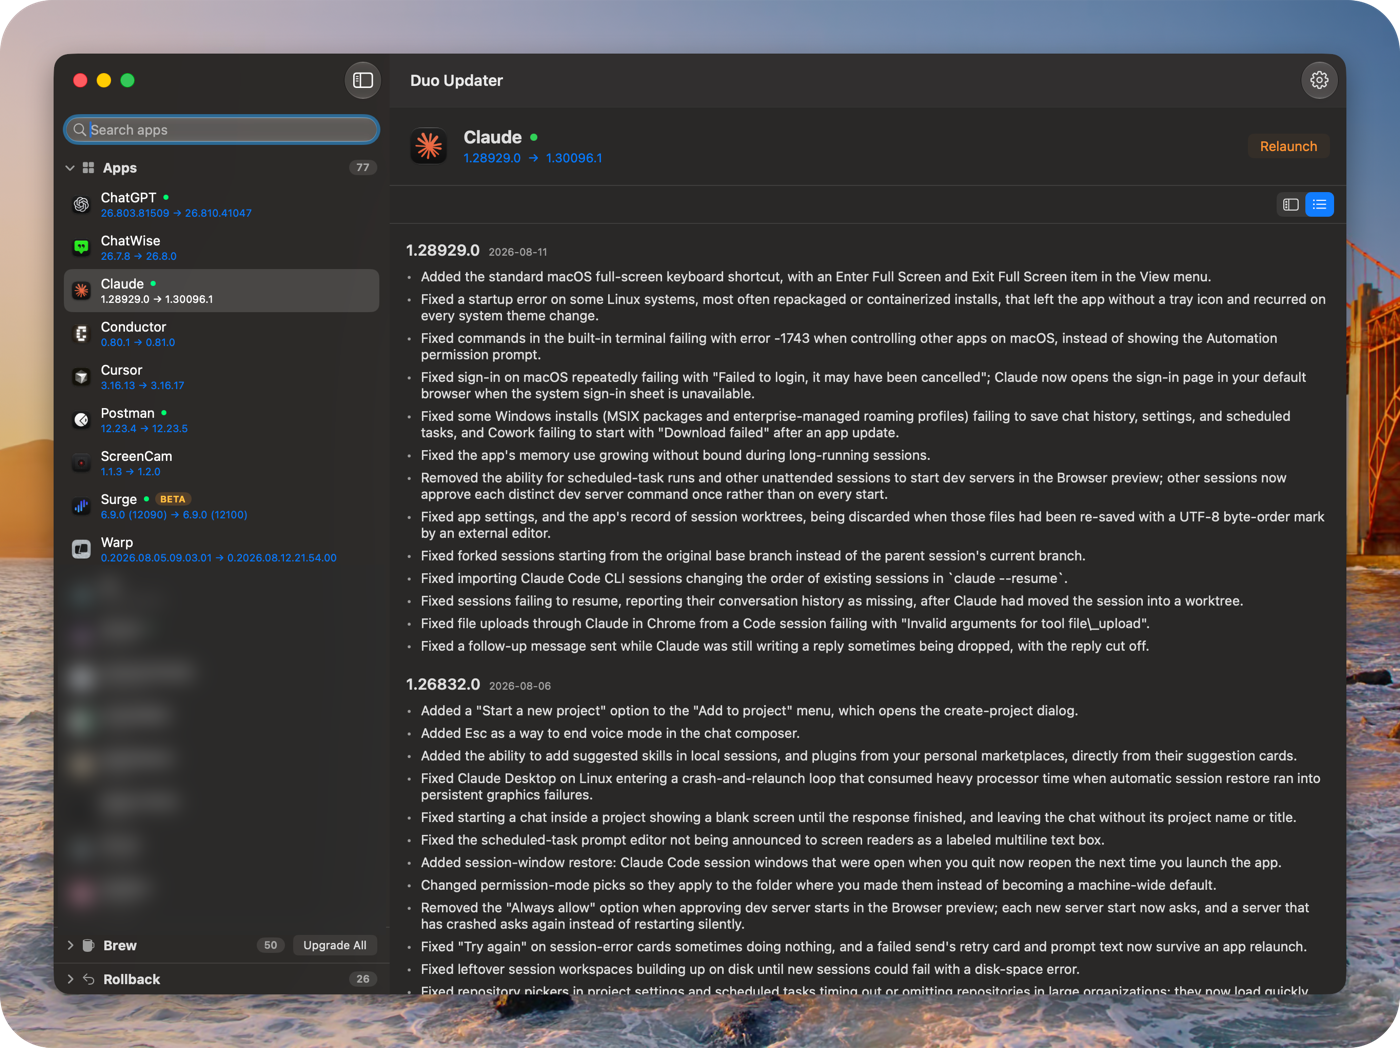
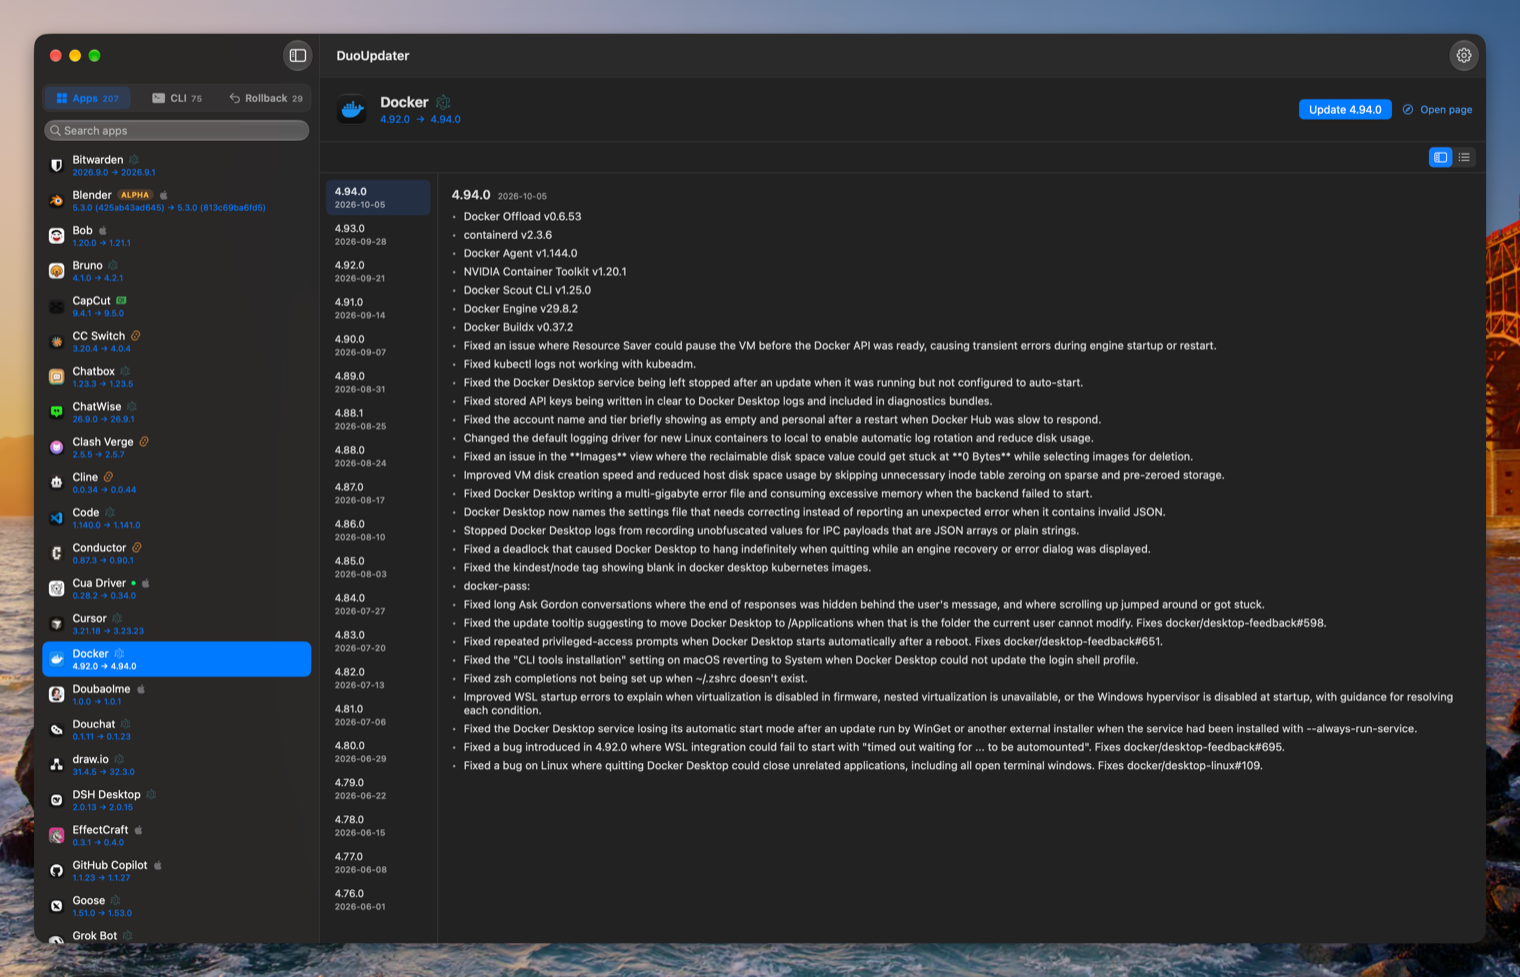
Home page: new screenshots, and one of the Xcode settings page (#10)
Syncs the menu bar, workbench and General settings shots from the app repo
(jizhi0v0/duo-updater#1048) and adds xcode.png: sync-content.mjs now copies
it, and the home page shows it after the settings figure.

menuBar.alt and settings.alt in all 11 locales describe the new pictures
(89 updates, Anki and BetterDisplay instead of Amp and AndroMeld, the
Homebrew and Other tools rows, the new sidebar entries, no rollback-backup
controls). The new xcode.alt and xcode.caption are in all 11 locales; the
captions use the app's own translations of Install and Download Only.
zh-hans menuBar.alt also loses a stray "应用" inside the quoted English card.

Translations were reviewed by a separate pass; it changed three wordings
(ru: "Войдите в" read as "go into", tr: "değiştirmez" as "modify", it:
"copia a sé"). pt-br keeps "iniciar sessão" to match the app's own strings.
npm run build passes; the built en, zh-hans, fr and ja pages carry the new
alt texts and image sizes.

diff --git a/components/HomePage.tsx b/components/HomePage.tsx
@@ -16,6 +16,7 @@ import changelogShot from "@/public/screenshots/changelog.png";
 import menuBarShot from "@/public/screenshots/menu-bar.png";
 import releaseLogShot from "@/public/screenshots/release-log-timeline.png";
 import settingsShot from "@/public/screenshots/settings.png";
+import xcodeShot from "@/public/screenshots/xcode.png";
 
 // The languages the app itself ships in. It follows the app's releases, not
 // this site's translations: until the release that added it, pt-BR, tr and
@@ -182,6 +183,16 @@ export default async function HomePage({ locale }: { locale: LocaleID }) {
           sizes="(max-width: 52rem) 100vw, 760px"
         />
         <figcaption>{t("settings.caption")}</figcaption>
+      </figure>
+
+      <figure className="shot">
+        <Image
+          src={xcodeShot}
+          alt={t("xcode.alt")}
+          className="shot-wide"
+          sizes="(max-width: 52rem) 100vw, 760px"
+        />
+        <figcaption>{t("xcode.caption")}</figcaption>
       </figure>
     </div>
   );
